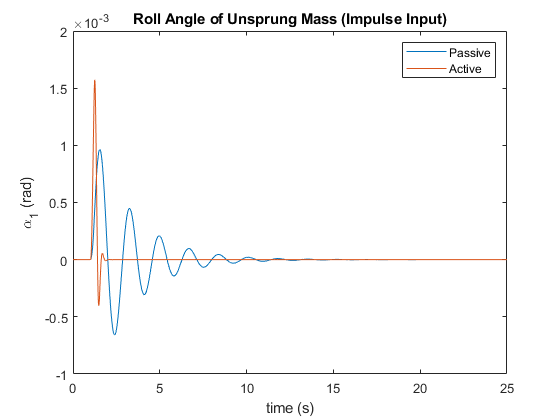
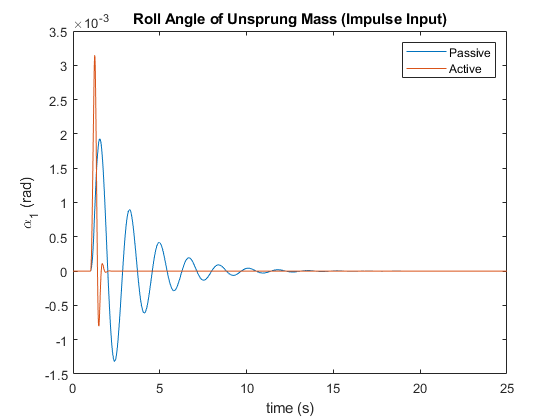
fix: bug in Q4c - L matrix

diff --git a/Q4c.m b/Q4c.m
@@ -26,7 +26,7 @@ A = [A_1; A_2; A_3; A_4];
 
 B = [0, 0; -t/(2*Iu_), t/(2*Iu_); 0, 0; t/(2*Is_), -t/(2*Is_)];
 
-L = [0; mu*h1/(2*Iu_); 0; ms*h2/(2*Is_)];
+L = [0; mu*h1/Iu_; 0; ms*h2/Is_];
 
 Q = diag(rho(1:4));
 R = diag(rho(5:6));
